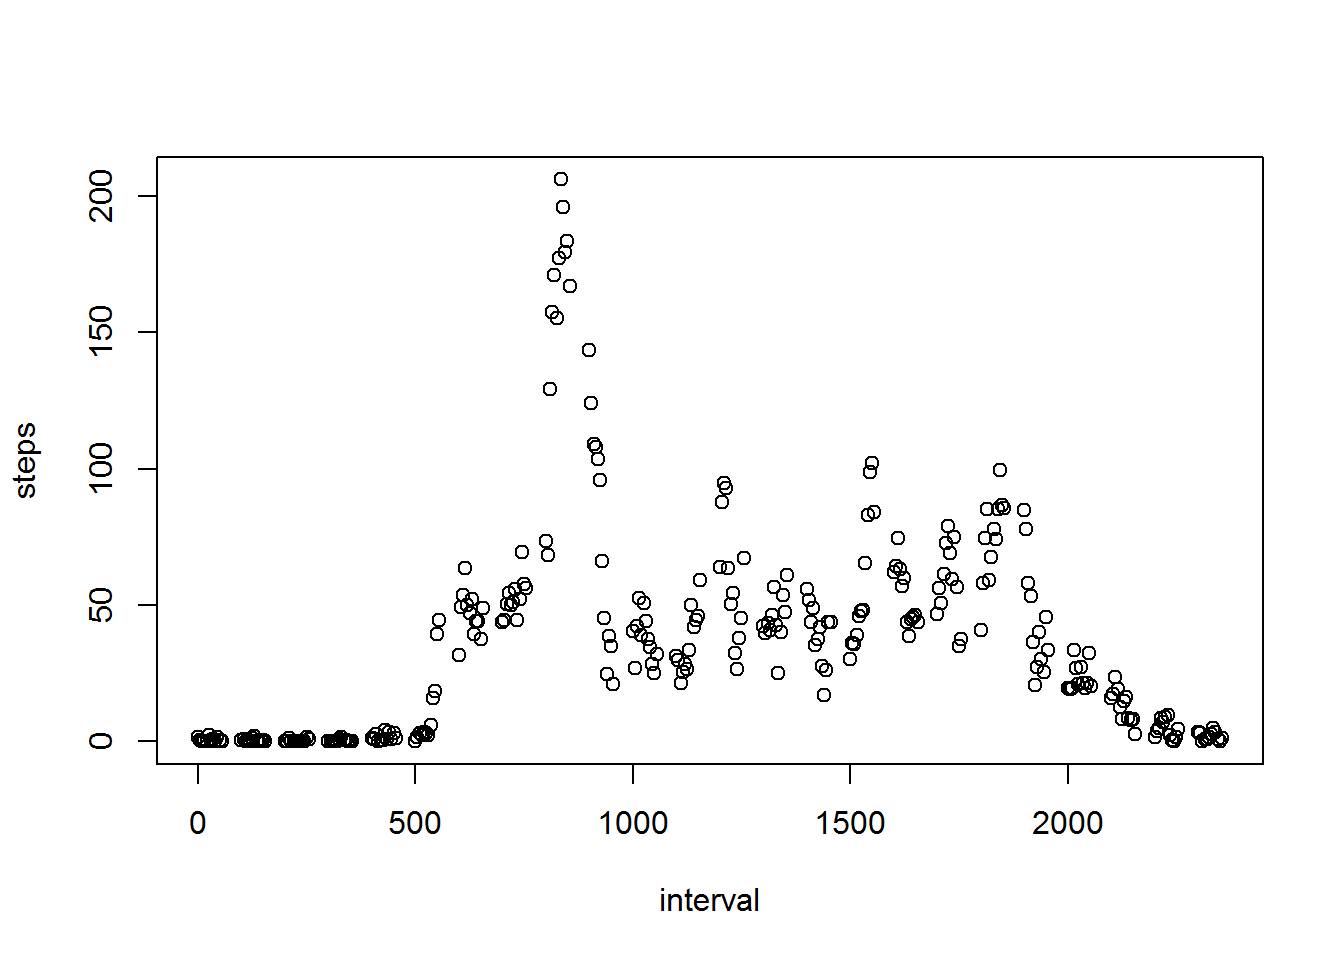
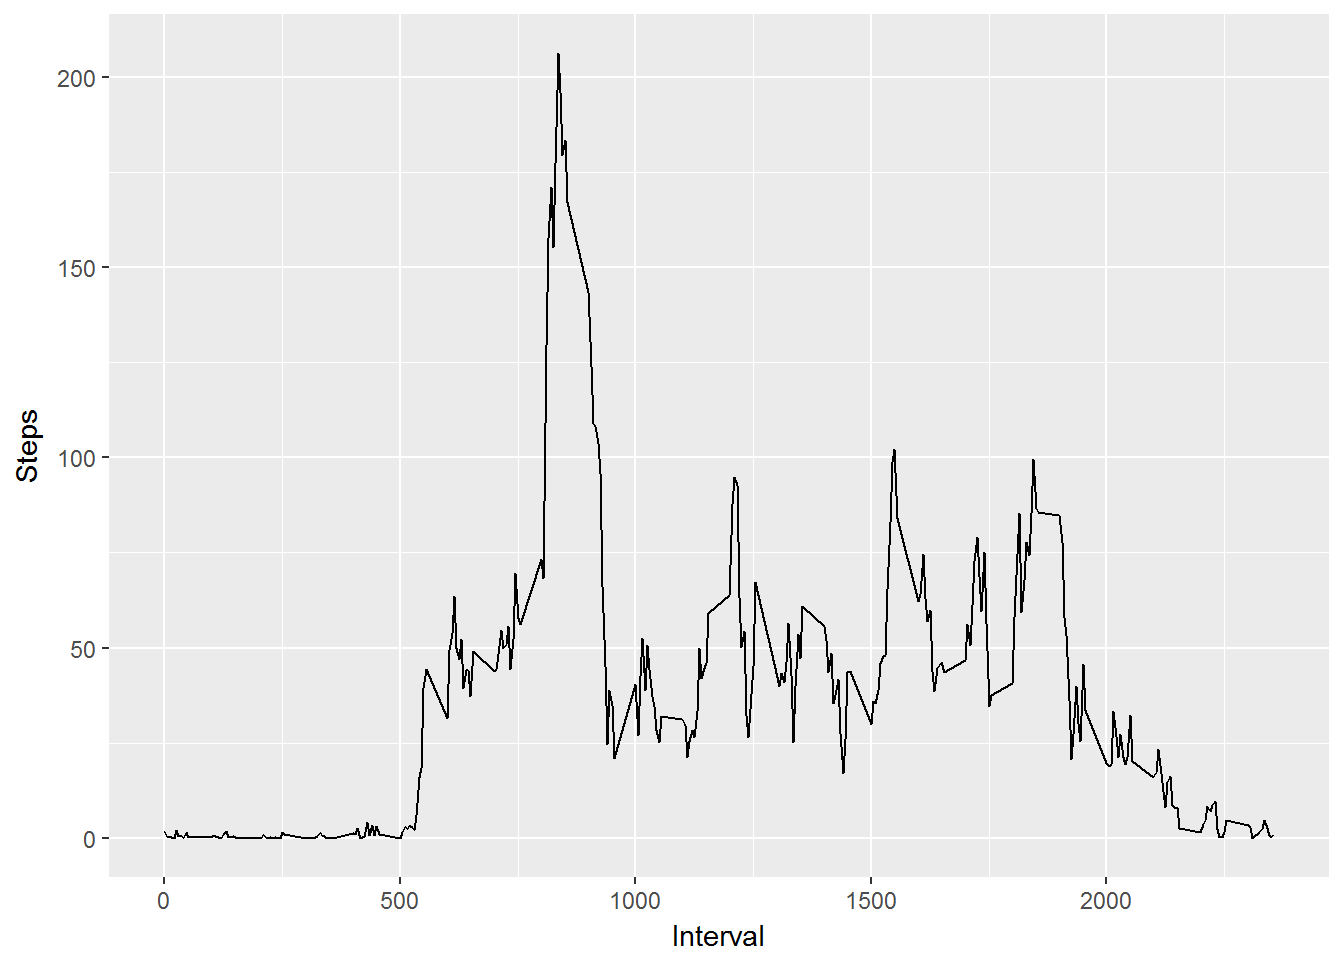
removed template code

diff --git a/5 - Reproducible Research/Week 1/PA1_template.html b/5 - Reproducible Research/Week 1/PA1_template.html
@@ -146,27 +146,8 @@ ggplot(data = steps.by.date, aes(steps)) + geom_histogram(bins = 30) + xlab(&quo
 <div id="average-steps-per-5-minute-interval" class="section level3">
 <h3>Average steps per 5-minute interval</h3>
 <pre class="r"><code>steps.by.time &lt;- aggregate(steps ~ interval, data = data, FUN = mean)
-plot(steps.by.time)</code></pre>
[1 lines of base64/hex data omitted]
-</div>
-<div id="r-markdown" class="section level2">
-<h2>R Markdown</h2>
-<p>This is an R Markdown document. Markdown is a simple formatting syntax for authoring HTML, PDF, and MS Word documents. For more details on using R Markdown see <a href="http://rmarkdown.rstudio.com" class="uri">http://rmarkdown.rstudio.com</a>.</p>
-<p>When you click the <strong>Knit</strong> button a document will be generated that includes both content as well as the output of any embedded R code chunks within the document. You can embed an R code chunk like this:</p>
-<pre class="r"><code>summary(cars)</code></pre>
-<pre><code>##      speed           dist       
-##  Min.   : 4.0   Min.   :  2.00  
-##  1st Qu.:12.0   1st Qu.: 26.00  
-##  Median :15.0   Median : 36.00  
-##  Mean   :15.4   Mean   : 42.98  
-##  3rd Qu.:19.0   3rd Qu.: 56.00  
-##  Max.   :25.0   Max.   :120.00</code></pre>
-</div>
-<div id="including-plots" class="section level2">
-<h2>Including Plots</h2>
-<p>You can also embed plots, for example:</p>
[1 lines of base64/hex data omitted]
-<p>Note that the <code>echo = FALSE</code> parameter was added to the code chunk to prevent printing of the R code that generated the plot.</p>
+ggplot(data = steps.by.time, aes(interval, steps)) + geom_line() + xlab(&quot;Interval&quot;) + ylab(&quot;Steps&quot;)</code></pre>
[1 lines of base64/hex data omitted]
 </div>
 
 
